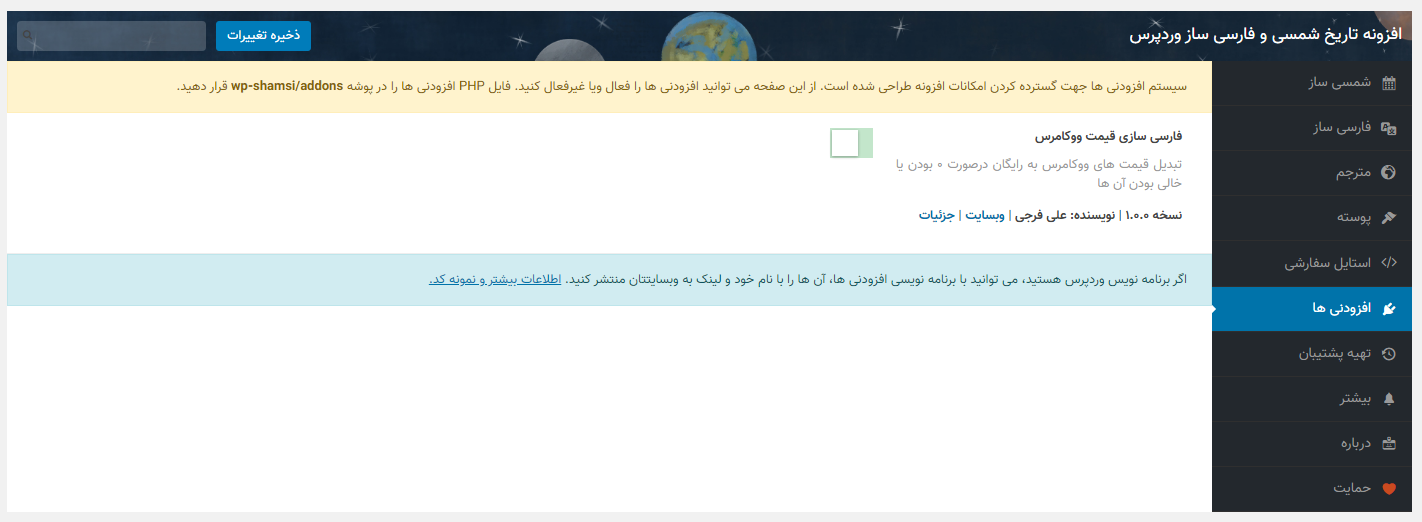
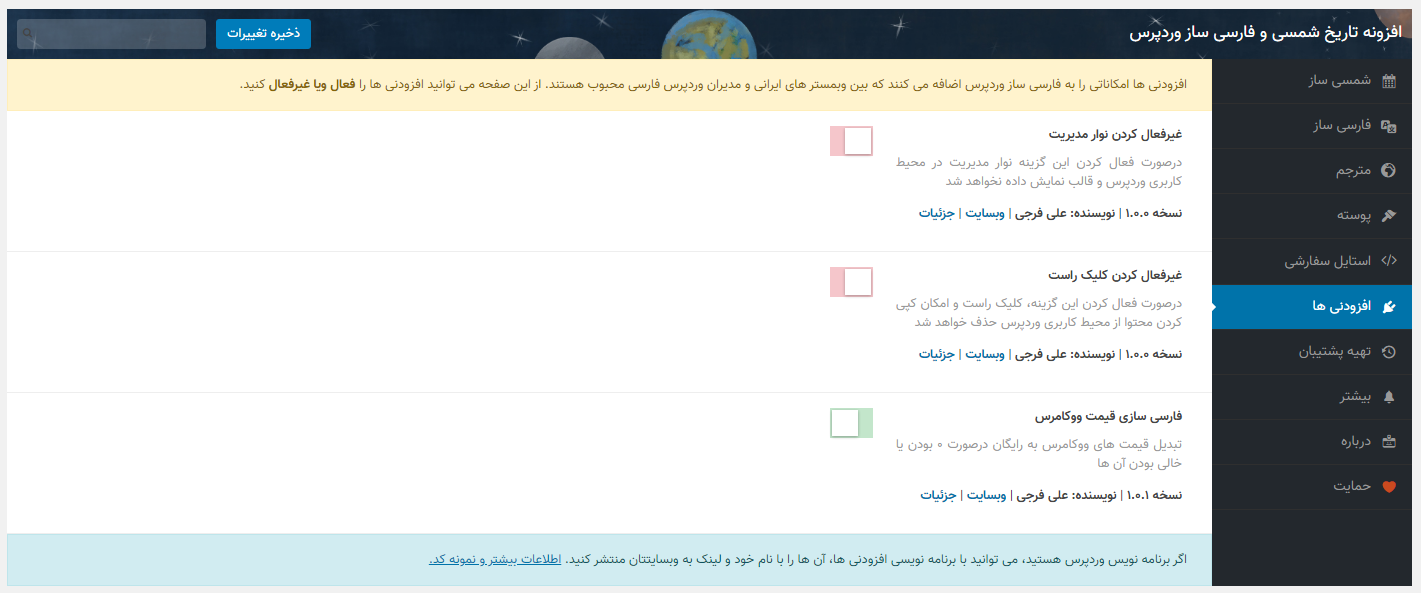
V1.2.1

diff --git a/README.md b/README.md
@@ -9,6 +9,11 @@
 * شمسی سازی تاریخ ها در هسته وردپرس
 * شمسی سازی آرشیو (بایگانی) وردپرس
 * شمسی سازی ابزارک آرشیو (بایگانی) وردپرس
+* فارسی سازی قالب پیشفرض و سایر قالب های محبوب وردپرس به طور خودکار
+* ترجمه افزونه ها و قالب های وردپرس با ابزار "مترجم" به طور مستقیم
+* امکان درج استایل سفارشی در ادیتور پیشرفته سی اس اس
+* سیستم افزودنی ها جهت افزایش امکانات افزونه
+* صفحه تنظیمات پیشرفته جهت مدیریت گزینه ها و امکانات افزونه
 * اصلاح زمان محلی
 * اصلاح روز شروع هفته
 * نمایش اعداد تاریخ به فارسی در همه جا
@@ -16,7 +21,15 @@
 * اصلاح فونت محیط مدیریت (داشبورد) وردپرس
 * کدنویسی استاندارد و بهینه
 * سرعت و عملکرد بالای افزونه
+* قابلیت تهیه پشتیبان از عبارات ترجمه شده و تنظیمات افزونه
 * و ...
+
+## افزودنی ها
+افزودنی ها امکاناتی را به فارسی ساز وردپرس اضافه می کنند که بین وبمستر های ایرانی و مدیران وردپرس فارسی محبوب هستند
+
+* غیرفعال کردن نوار مدیریت
+* غیرفعال کردن کلیک راست
+* فارسی سازی قیمت ووکامرس
 
 ## آموزش های فارسی وردپرس
 
@@ -53,5 +66,23 @@
 
 
 ## تغییرات
+1.2.1
+* افزودنی جدید : غیرفعال کردن کلیک راست
+* افزودنی جدید : غیرفعال کردن نوار مدیریت
+* رفع باگ: رفع باگ سیستم افزودنی ها
+* رفع باگ: رفع باگ ها جزئی افزونه
+
+1.2.0
+* نسخه ماژور
+* امکانات جدید: صفحه تنظیمات پیشرفته جهت مدیریت گزینه ها و امکانات افزونه
+* امکانات جدید: سیستم جدید افزودنی ها جهت افزایش امکانات افزونه
+* امکانات جدید: ترجمه افزونه ها و قالب های وردپرس با ابزار "مترجم" به طور مستقیم
+* امکانات جدید: فارسی سازی قالب پیشفرض و سایر قالب های محبوب وردپرس به طور خودکار
+* امکانات جدید: امکان درج استایل سفارشی در ادیتور پیشرفته سی اس اس
+* امکانات جدید: قابلیت تهیه پشتیبان از عبارات ترجمه شده و تنظیمات افزونه
+* بهبود: اضافه کردن مستندات کد ها
+* رفع باگ: رفع باگ مربوط به جاوااسکریپت
+* رفع باگ: بهبود شمسی سازی افزونه
+
 1.0.0
-انتشار افزونه
+* انتشار افزونه
